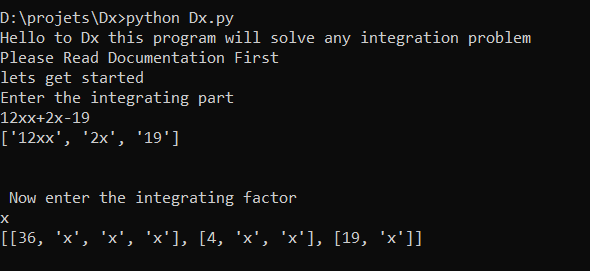
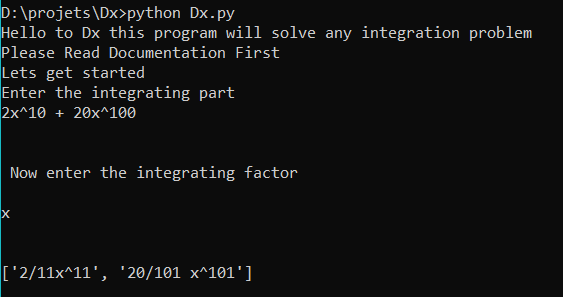
Add files via upload
Removed the mistake of combining integration and diffentitaion and enhanced the input and output format of the program

diff --git a/Dx.py b/Dx.py
@@ -1,52 +1,45 @@
 import re
 print("Hello to Dx this program will solve any integration problem ")
 print("Please Read Documentation First")
-print("lets get started \nEnter the integrating part  ")
+print("Lets get started \nEnter the integrating part  ")
 i=1
 j=0
 integrating=input()
 Total=integrating.split('+')
 for plus in Total:
     minuses=plus.split('-')
-    Total[j]=minuses[0]
+    Total[j]=minuses[0] #assigning the first term to Total List
     j=j+1
     while i<=len(minuses)-1:
         Total.append(minuses[i])
         i=i+1
-print(Total)
 print('\n\n Now enter the integrating factor\n')
 dx=input()
 final=[]
 print('\n')
 for integrating in Total:
-    i=0
     this=[]
     x=0
-    y=re.findall('[0-9]+',integrating)
-    for factor in integrating:
-        if factor==dx:
-            x=x+1
-    y=int(y[0])
-    x=x+1
-    y=y*(x)
+    i=0
+    pos=integrating.find('^')+1#finding power positon
+    y=integrating[pos:]#slicing the power form the terms
+    y=int(re.findall('[0-9]+',y)[0])
+    x=int(re.findall('[0-9]+',integrating[0:pos])[0])
+    y=y+1
+    this.append(x)
+    this.append('/')
     this.append(y)
-    for z in integrating:
+
+    for z in integrating[0:pos-1]:
         try:
-            z=int(z)
+            z=int(z)#if the part of term is a integer it is not added in the output
         except:
             if z!=dx:
-                this.append(z)
-
-    while i<x:
-        this.append(dx)
-        i=i+1
+                this.append(z)#only the terms which are not integrating factor are added in the List
+    this.append(" x^")
+    this.append(y)
     final.append(this)
-
+while i<len(final):
+    final[i]=''.join(str(e) for e in final[i])
+    i=i+1
 print(final)
-
-
-
-
-
-
-input()
